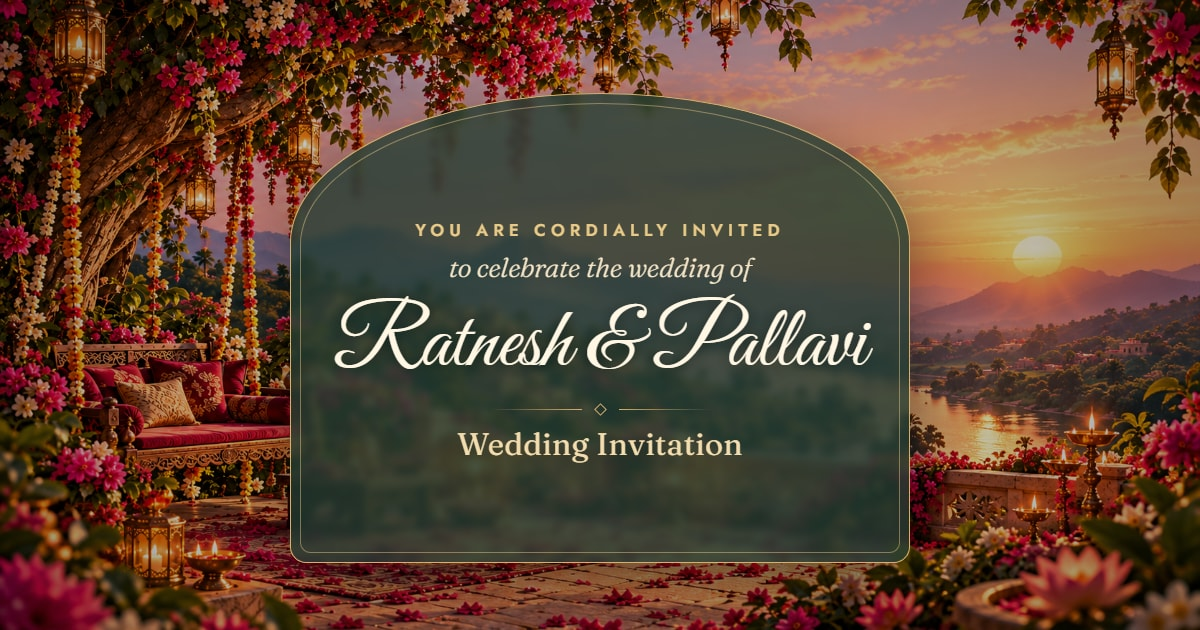
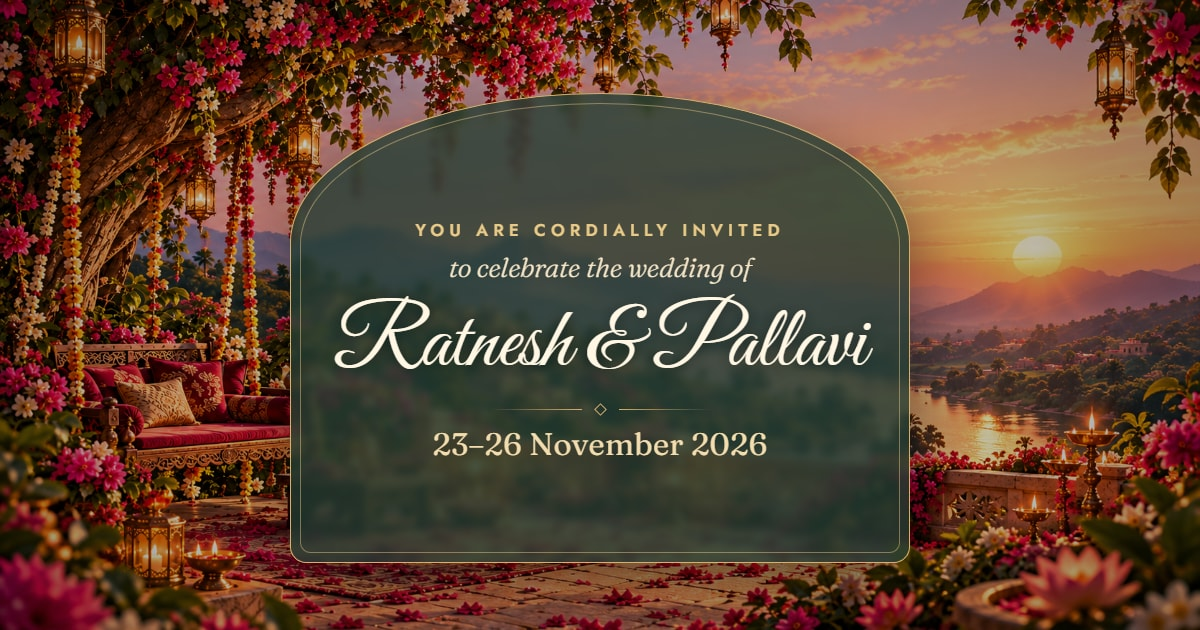
Landing page at the bare domain: a door into each side's invitation
- "/" and "/hi" open on the welcome painting, "You are cordially
  invited", the couple, 23-26 November 2026 and the countdown, then two
  arched doors: Groom's side · Ratnesh's family (Amber Fort, maroon)
  and Bride's side · Pallavi's family (Lake View, blue), each showing
  its own painting. Side by side on phones; a ?to= personal link is
  carried through. A SITE_THEME deploy still serves its theme at "/".
- The full garden story moves to /garden (and /hi/garden); old /nature
  links forward there. The landing's own preview carries both sides'
  dates.
- Short phones run the ceremony name on after the card title, so the
  celebration photo keeps its room.
- Tests point at /garden; a static check covers the landing doors;
  the card-title check includes the ceremony name.

Changed region(s): [[0.3392, 0.6635, 0.6475, 0.754]]

diff --git a/src/lib/theme.ts b/src/lib/theme.ts
@@ -113,17 +113,17 @@ const lakeEventAssets = {
 /** Theme registry for the original nature story and the two Rajasthan variants. */
 export const themeConfig = {
   nature: {
-    route: '/',
+    route: '/garden',
     label: 'Nature & Stories',
     description: 'A living miniature wedding invitation.',
     meta: {
       en: {
         title: 'Ratnesh & Pallavi — Wedding Invitation',
-        description: 'You are cordially invited to celebrate the wedding of Ratnesh & Pallavi.',
+        description: 'You are cordially invited to celebrate the wedding of Ratnesh & Pallavi · 23–26 November 2026',
       },
       hi: {
         title: 'रत्नेश एवं पल्लवी — शुभ विवाह निमंत्रण',
-        description: 'आप सादर आमंत्रित हैं — रत्नेश एवं पल्लवी के शुभ विवाह में।',
+        description: 'आप सादर आमंत्रित हैं — रत्नेश एवं पल्लवी के शुभ विवाह में · 23–26 नवम्बर 2026',
       },
     },
     themeColor: '#213B32',

diff --git a/src/styles/nature.css b/src/styles/nature.css
@@ -593,6 +593,7 @@ html[data-theme][data-memory-open]:has(.ns-home) { overflow: hidden; scroll-snap
 }
 @media (max-width: 767px) and (max-height: 600px) {
   .ns-celebrations-intro { display: none; }
+  .ns-event-copy .ns-event-label { display: inline; letter-spacing: .04em; } /* runs on after the title, a line back for the photo */
   .ns-event-mark { width: 18px; height: 18px; top: -12px; }
 }
 /* Tablets: two rows of two upright, all four in a row when held sideways. */

diff --git a/DEPLOYMENT.md b/DEPLOYMENT.md
@@ -9,6 +9,10 @@ Use one Vercel project and one custom domain. The two public invitation experien
 
 Hindi versions are available at `/hi/amber-fort/` and `/hi/lake-view/`. The old `/lake-city/` paths permanently redirect to `/lake-view/`.
 
+The bare domain (`https://YOUR_DOMAIN/`, and `/hi/`) is a landing page for both sides. It shows the welcome painting, the couple and the countdown, then two doors: "Groom's side · Ratnesh's family" leads to `/amber-fort`, and "Bride's side · Pallavi's family" leads to `/lake-view`. A `?to=` personal link carries through either door.
+
+The full garden story is kept at `/garden/` (and `/hi/garden/`). The old `/nature/` links forward there.
+
 This is the most reliable way to use path routes on Vercel. Two separate Vercel projects should use two subdomains instead, such as `amber.YOUR_DOMAIN` and `lake.YOUR_DOMAIN`.
 
 ## Vercel project settings
